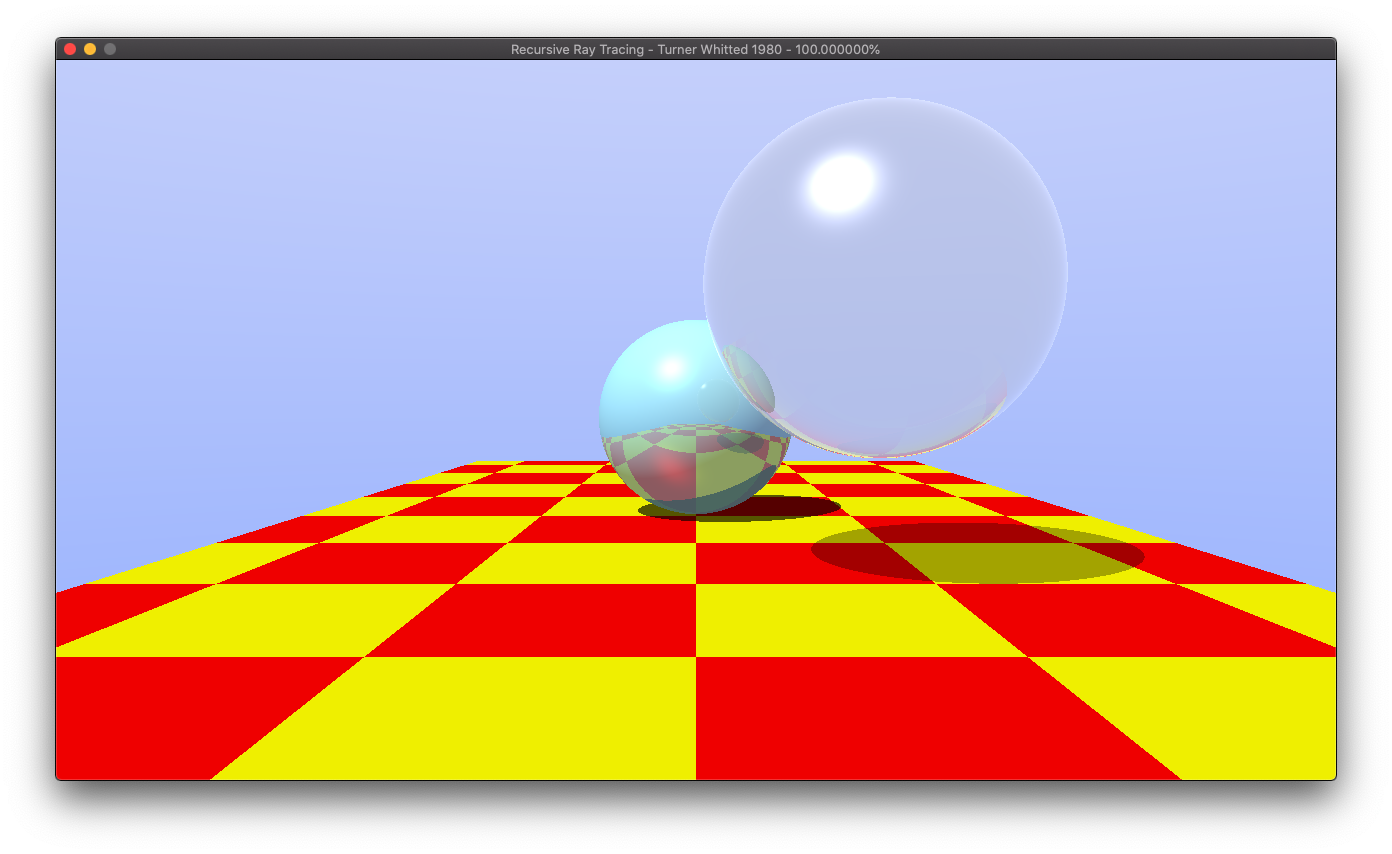
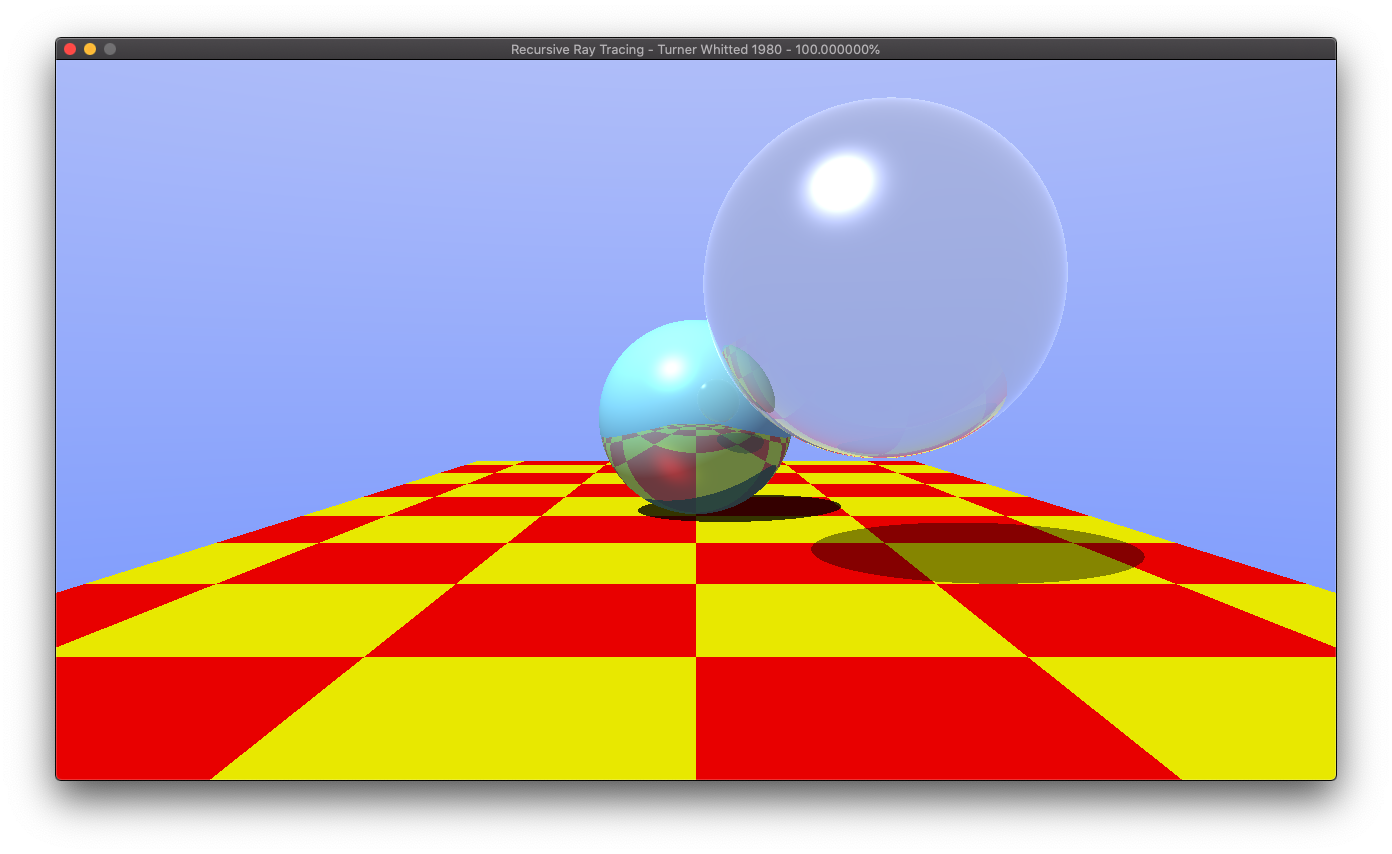
smaller gama

diff --git a/1980.Whitted/code/WhittedRayTracer.cpp b/1980.Whitted/code/WhittedRayTracer.cpp
@@ -42,7 +42,7 @@ void WhittedRayTracer::_renderThread(MyScene::Ptr scene, MyCamera::Ptr camera) {
       glm::vec3 color = _rayShading(viewRay, scene.get(), 0);
 
       // gama
-      constexpr float GAMA = 1.0f/1.8f;
+      constexpr float GAMA = 1.0f/1.25f;
       color.x = std::powf(color.x, GAMA);
       color.y = std::powf(color.y, GAMA);
       color.z = std::powf(color.z, GAMA);
